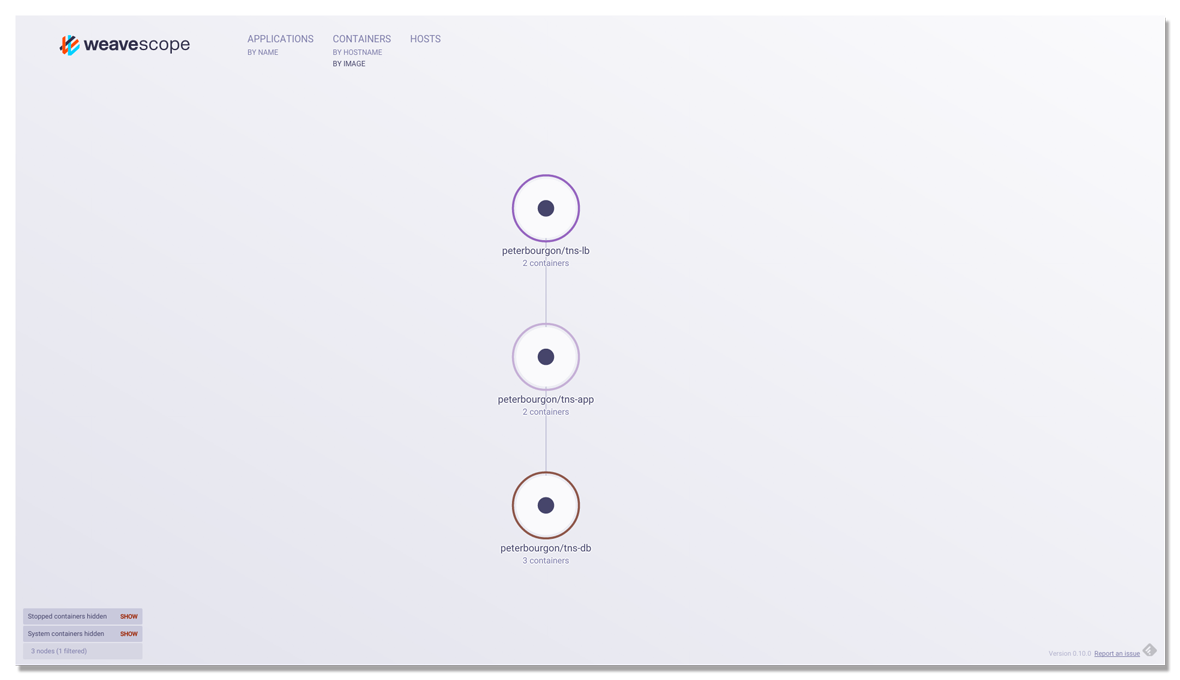
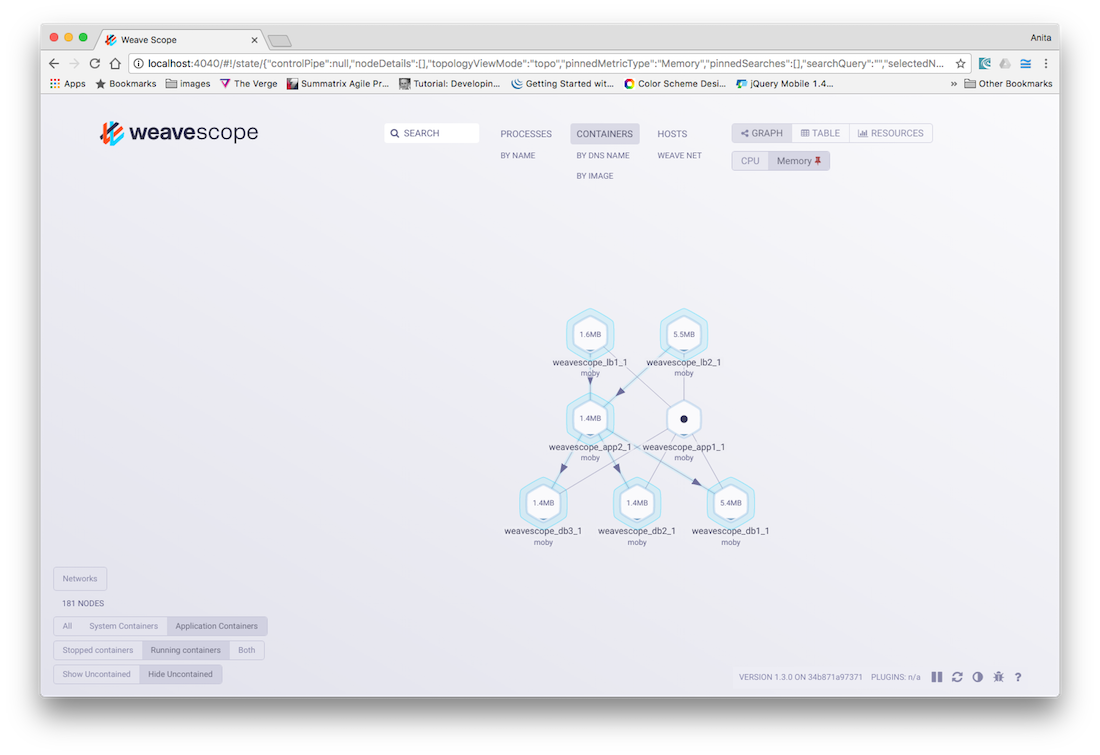
update scope guide

diff --git a/weave-scope/README.md b/weave-scope/README.md
@@ -2,7 +2,7 @@
 layout: guides
 title: Monitoring Docker Containers with Weave Scope
 description: How to use Weave Scope to monitor and visualize docker container clusters and swarms.
-tags: weave scope, docker container visibility, cluster, swarms
+tags: Weave Scope, Docker container visibility
 permalink: /guides/weave-scope/weave-scope-alone-monitor-containers.html
 
 ---
@@ -14,11 +14,11 @@ Weave Scope can be deployed to any infrastructure, and works well in all cloud a
 
 ## How Weave Scope is Deployed?
 
-Weave Scope consists of three parts: the probe, the app and the user interface. There are two ways in which Weave Scope can be deployed: as a standalone configuration, or if you don't want to bother with the administration yourself, you can sign up for [Weave Cloud](https://cloud.weave.works).
+There are two ways in which Weave Scope can be deployed: as a standalone configuration, or if you don't want to bother with the administration yourself, you can sign up for [Weave Cloud](https://cloud.weave.works).
 
 ### Weave Cloud
 
-Weave Cloud manages and shares access to your Weave Scope user interface. With [Weave Cloud](https://cloud.weave.works), Weave Scope probes are run locally on your machines, whereas the app and the user interface are hosted on the Weave Cloud. Microservices are monitored in a browser from the [https://cloud.weave.works](https://cloud.weave.works) website.
+Weave Cloud manages and shares access to your Weave Scope user interface. With [Weave Cloud](https://cloud.weave.works), Weave Scope probes are run locally on your machines, but the Scope app and its user interface are hosted on the Weave Cloud. Microservices are monitored in a browser from the [https://cloud.weave.works](https://cloud.weave.works) website.
 
 Sign up at [https://cloud.weave.works](https://cloud.weave.works) to obtain a secure service token. 
 
@@ -28,7 +28,7 @@ In standalone mode, all Weave Scope components are run locally: the probes and t
 
 ## About This Guide
 
-This guide demonstrates how to launch and use Weave Scope in standalone mode. You will: 
+This guide demonstrates how to launch and use Weave Scope in stand-alone mode. You will: 
 
 1. Deploy a 3-tiered web application stack, consisting of a pool of data services, a set of custom application servers and a load balancing layer. 
 2. Launch Weave Scope to visualize and monitor containers and return useful intelligence. 
@@ -38,35 +38,17 @@ This tutorial takes about 15 minutes to complete and while some UNIX skills are 
 
 ## What You Will Use
 
-* [Weave](https://weave.works)
+* [Weave Net](https://weave.works)
 * [Weave Scope](https://weave.works/weave-scope/)
 * [Docker](https://docker.com)
 * [Docker Compose](https://www.docker.com/docker-compose)
 
 ## Before You Begin
 
-If you are using OS X or Windows, you can install [Docker Toolbox](https://www.docker.com/toolbox), which provides all of the tools you need to complete this guide.
+If you are using OS X install [Docker for Mac](https://docs.docker.com/docker-for-mac/install/) or [Docker for Windows](https://docs.docker.com/docker-for-windows/install/) which provides all of the tools you need to complete this guide.
 
-For other operating systems, please install and configure the following separately before proceeding:
+For other operating systems, see [Installing Docker](https://docs.docker.com/engine/installation/). 
 
-  - [`docker-machine`](http://docs.docker.com/machine/#installation) binary (_`>= 0.2.0`_)
-  - [`docker`](https://docs.docker.com/installation/#installation) binary, at least the client (_`>= v1.6.x`_)
-  - [VirtualBox](https://www.virtualbox.org/wiki/Downloads) (_`>= 4.3.x`_)
-  - `curl` (_any version_)
-
-## Setting up the VM
-
-First, install Linux onto a VM using virtual toolbox by typing: 
-
-~~~bash
-docker-machine create -d virtualbox weave-scope-demo
-~~~
-
-SSH onto the newly created VM and then proceed to the next section: 
-
-~~~bash
-docker-machine ssh weave-scope-demo
-~~~
 
 ### Deploying the Sample Application
 
@@ -105,7 +87,10 @@ Verify that the containers are reachable by curling one of the tns_lb instances.
 By default, the containers listen on ports 8001 and 8002:
 
 ~~~bash
-$ curl localhost:8001  # on a Mac, try: curl `boot2docker ip`:8001
+$ curl localhost:8001
+~~~
+
+~~~
 lb-6d5b2352f76d4a807423ce847b80f060 via http://app1:8080
 app-60fbe0a31aee9526385d8e5b44d46afb via http://db2:9000
 db-e68d33ceeddbb77f4e36a447513367e8 OK
@@ -113,13 +98,12 @@ db-e68d33ceeddbb77f4e36a447513367e8 OK
 
 ### Launching Weave Scope
 
-With the sample app up and running, you are ready to install and launch Weave Scope:
+With the sample app running, install and launch Weave Scope:
 
 ~~~bash
-sudo wget -O /usr/local/bin/scope \
-  https://github.com/weaveworks/scope/releases/download/latest_release/scope
+sudo curl -L git.io/scope -o /usr/local/bin/scope
 sudo chmod a+x /usr/local/bin/scope
-sudo scope launch
+scope launch
 ~~~
 
 Point your web browser to: `http://192.168.99.100:4040/` (or to the address displayed to you in the terminal window after Weave Scope was launched).
@@ -142,15 +126,17 @@ Hostnames are regularly resolved as A records, where each answer is used as a ta
 
 ## Visualizing Infrastructure
 
-Once Weave Scope is launched in your browser, an immediate overview of the infrastructure is displayed, including any running containers. The Weave Scope view is presented in an order with clients generally placed above servers. Read a Weave Scope view by going from top to bottom.
+Once Weave Scope is launched in your browser, an immediate overview of the infrastructure are split up by views which include: Processes, Containers and Hosts. And if you were running this app in an orchestrator, an additional view also appears. If the app is running in Kubernetes Pods appear and if you are running in ECS then Tasks appears.  
+
+The Weave Scope view is presented in an order with clients generally placed above servers. Read a Weave Scope view by going from top to bottom.
 
 **An Overview of Application Layers:**![Weave Scope Overview of Application Layers](../images/weave-scope/weave-scope-application-layers.png)
 
-A line between two nodes within the view represents a connection between containers. To help you understand the connections in your view, hover over a container or a connection to highlight all connected containers. This is especially useful for infrastructures that use a lot of containers.
+A line between two nodes within the view represents a connection between containers. To help you understand the connections in your view, hover over a container or a connection to highlight all connected containers and to reveal the communication direction. 
 
 ## Viewing Metrics
 
-Metrics about a node are displayed by clicking on a node in the Weave Scope view.  For example, to examine the metrics about one of the database (db) containers in this example, click on the node with the label tns_db1_1.
+Metrics about a node are displayed by clicking on a node from one of the Scope views.  For example, to examine the metrics about one of the database (db) containers in this example, click on the database node. To assist you in finding this quickly enter `tns_db` into the search field. The search functionality allows simple operands and search terms may also be stacked to create more complex queries (see the Scope online help for a list of allowed operands). 
 
 **Metrics of the DB Container**:![Weave Scope Metrics of DB Container](../images/weave-scope/weave-scope-database-metrics.png)
 
@@ -158,19 +144,30 @@ The panel on the right shows information about the database, such as the image a
 
 >Note: In this view, you can Pause, Restart, and Stop containers, and for this reason, access to the Weave Scope user interface should be restricted to trusted individuals. 
 
-## Grouping By Containers or Hosts
+## Processes Views
 
-Weave Scope works great for infrastructures of any size, but if there are too many containers on the screen at once for you to manage, use Weave Scope’s grouping features to make the view easier to understand. In the Containers view, click the Image button to merge all containers running on the same host together.
-
-**Grouped Container View:**![Weave Scope Grouped Container View](../images/weave-scope/weave-scope-group-containers.png)
+Weave Scope works great for infrastructures of any size, but if there are too many containers on the screen at once for you to manage, the Process view makes your cloud native app easier to understand. 
 
 All db, app, and lb instances are merged together into single nodes, even when they exist across hosts. This is a logical, rather than a physical lens on the infrastructure — something that application developers intuitively understand. Detailed statistics are also merged.
 
 The logical view is useful for application developers, but for those with a more operations-oriented background,  a `Hosts` view is also provided that displays a standard physical layout of the infrastructure.
 
-Click on `Applications` to show all processes communicating in your network. This is the most granular view of Weave Scope. Weave Scope collects information in a flexible data model, which makes it possible to visualize nearly all possible transformations of your infrastructure setup.
+**An Overview of all Processes:**![Weave Scope View Processes Communicating](../images/weave-scope/weave-scope-applications-view.png)
 
-**An Overview of all Processes Communicating:**![Weave Scope View Processes Communicating](../images/weave-scope/weave-scope-applications-view.png)
+### Filtering Views
+
+Use Weave Scope’s filtering features to make a view easier to understand:  
+
+The Container view can be filtered by: 
+
+* Application or System
+* Running, Stopped or Both
+* Uncontained, Contained or Both
+* Network
+
+In addition to those high-level filters, your application can also show relative CPU and Memory consumption. When set to either of those filters, mousing over a Process, Container or Host displays provides a visual cue of these metrics.
+
+**Filter Containers by Application and Show Memory:**![Weave Scope Container](../images/weave-scope/weave-scope-group-containers.png)
 
 
 ## Stopping Weave Scope
@@ -184,7 +181,7 @@ sudo scope stop
 
 ## Conclusions
 
-This guide demonstrated how to launch Weave Scope in standalone mode, so that you can visualize, monitor and control your container network to gain valuable insight into your application's infrastructure. 
+This guide demonstrated how to launch Weave Scope in standalone mode, so that you can visualize, monitor and control your container network to gain insight into your application. 
 
 If you have any problems with this guide or would like to get in touch, contact us via [Help and Support](https://weave.works/help/).
 
